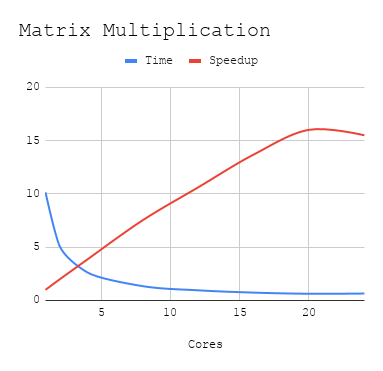
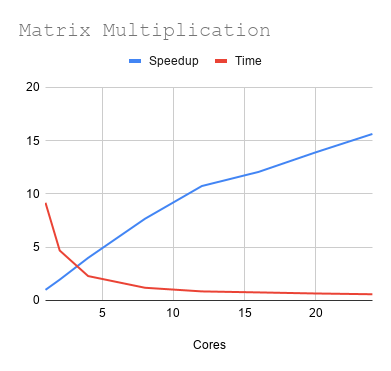
parallel_for uses default chunk_size

diff --git a/README.md b/README.md
@@ -258,7 +258,7 @@ let parallel_matrix_multiply pool a b =
   let k_n = Array.length b in
   let res = Array.make_matrix i_n j_n 0 in
 
-  Task.parallel_for pool ~chunk_size:chunk_size ~start:0 ~finish:(i_n - 1) ~body:(fun i ->
+  Task.parallel_for pool ~start:0 ~finish:(i_n - 1) ~body:(fun i ->
     for j = 0 to j_n - 1 do
       for k = 0 to k_n - 1 do
         res.(i).(j) <- res.(i).(j) + a.(i).(k) * b.(k).(j)
@@ -282,10 +282,12 @@ discussed earlier, `start` and `finish` as the names suggset are the starting
 and ending values of the loop iterations, `body` contains the actual loop body
 to be executed.
 
-One parameter that doesn't exist in the sequential version is
-the `chunk_size`. Chunk size determines the granularity of tasks when executing
-on multiple cores. The ideal `chunk_size` depends on a combination
-of factors:
+Parallel for also has an optional parameter `chunk_size`. It determines the
+granularity of tasks when executing them on multiple domains. If no parameter
+is given for `chunk size`, a default chunk size is determined which performs
+well in most cases. Only if the default chunk size doesn't work well, it is
+recommended to experiment with different chunk sizes. The ideal `chunk_size`
+depends on a combination of factors:
 
 * **Nature of the loop:** There are two things to consider pertaining to the
 loop while deciding on a `chunk_size` to use, the *number of iterations* in the
@@ -308,16 +310,16 @@ Let us find how the parallel matrix multiplication scales on multiple cores.
 
 The speedup vs core is enumerated below for input matrices of size 1024x1024.
 
-| Cores | Time(s)| Speedup     |
-|-------|--------|-------------|
-| 1     | 10.153 | 1           |
-| 2     | 5.166  | 1.965350368 |
-| 4     | 2.65   | 3.831320755 |
-| 8     | 1.35   | 7.520740741 |
-| 12    | 0.957  | 10.6091954  |
-| 16    | 0.742  | 13.68328841 |
-| 20    | 0.634  | 16.01419558 |
-| 24    | 0.655  | 15.50076336 |
+| Cores | Time (s) | Speedup     |
+|-------|----------|-------------|
+| 1     | 9.172    | 1           |
+| 2     | 4.692    | 1.954816709 |
+| 4     | 2.293    | 4           |
+| 8     | 1.196    | 7.668896321 |
+| 12    | 0.854    | 10.74004684 |
+| 16    | 0.76     | 12.06842105 |
+| 20    | 0.66     | 13.8969697  |
+| 24    | 0.587    | 15.62521295 |
 
 ![matrix-graph](images/matrix_multiplication.png)
 
@@ -703,7 +705,7 @@ let a = Array.create_float n
 
 let _ =
   let pool = Task.setup_pool ~num_domains:(num_domains - 1) in
-  Task.parallel_for pool ~chunk_size:(n/num_domains) ~start:0
+  Task.parallel_for pool ~start:0
   ~finish:(n - 1) ~body:(fun i -> Array.set a i (Random.float 1000.));
   Task.teardown_pool pool
 ```
@@ -713,7 +715,7 @@ Let us measure how it scales.
 | #Cores | Time(s) |
 |--------|---------|
 | 1      | 3.136   |
-| 2      | 7.648   |
+| 2      | 10.19   |
 | 4      | 11.815  |
 
 When we had expected to see speedup executing in multiple cores, what we see
@@ -751,7 +753,7 @@ let arr = Array.create_float n
 let _ =
   let domains = T.setup_pool ~num_domains:(num_domains - 1) in
   let states = Array.init num_domains (fun _ -> Random.State.make_self_init()) in
-  T.parallel_for domains ~chunk_size:(n/num_domains) ~start:0 ~finish:(n-1)
+  T.parallel_for domains ~start:0 ~finish:(n-1)
   ~body:(fun i ->
     let d = (Domain.self() :> int) mod num_domains in
     Array.unsafe_set arr i (Random.State.float states.(d) 100. ))
